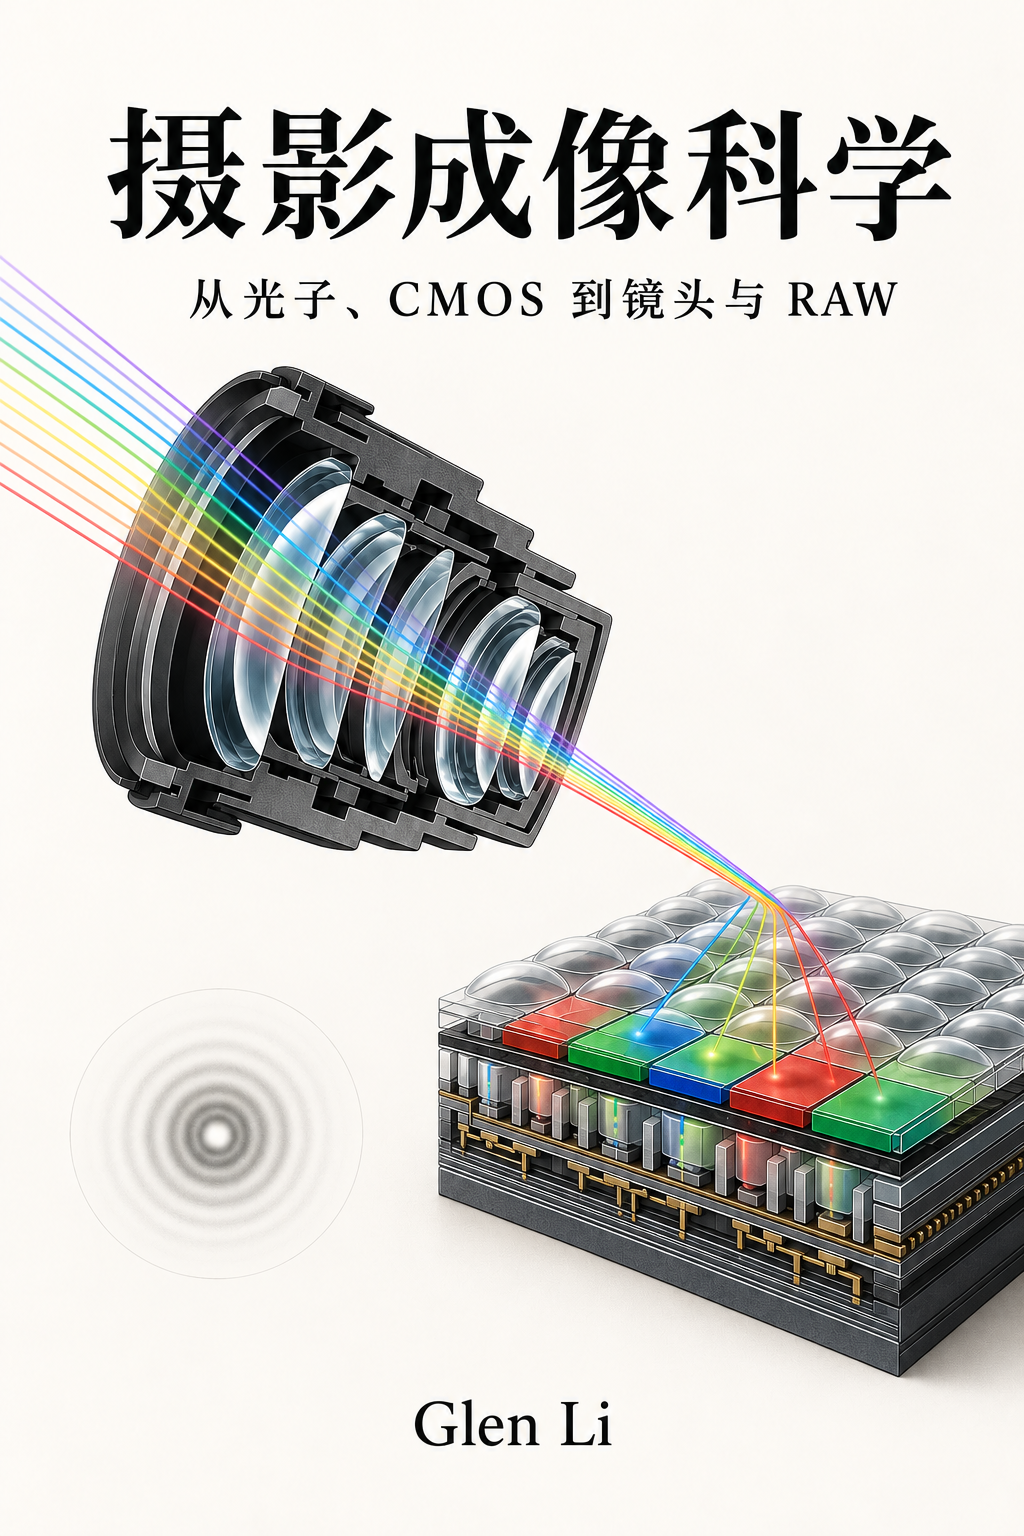
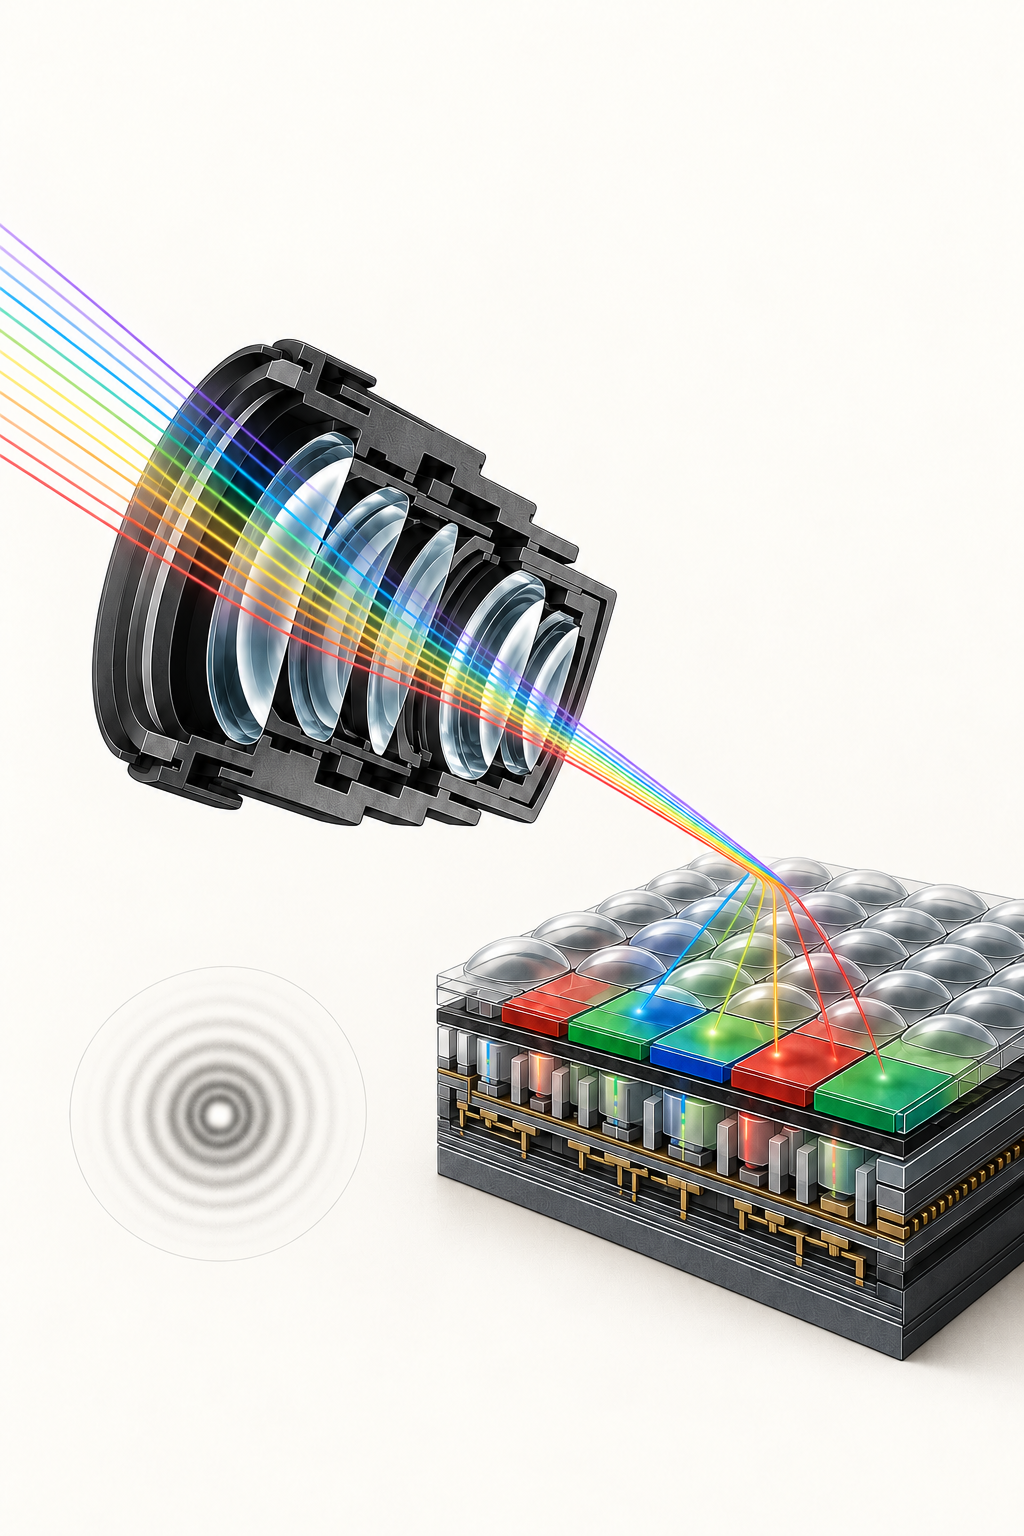
Shorten book title and separate cover illustration from typography

diff --git a/books/photographic-imaging-science/assets/cover-notes.md b/books/photographic-imaging-science/assets/cover-notes.md
@@ -1,16 +1,18 @@
-# 摄影成像科学封面
+# 摄影成像科学封面插画
 
 - 文件：[cover.png](cover.png)，1024 × 1536 px，PNG，比例 2:3。
-- 书名：摄影成像科学；副标题：从光子、CMOS 到镜头与 RAW。
+- 书名：摄影成像科学。
 - 作者：Glen Li。
 - 许可：[CC BY-NC-ND 4.0](../../../LICENSE)。
-- 制作日期：2026-10-19。使用 Codex 内置 imagegen，以原有 [cover.png](../cover.png) 为输入参考。
[1 lines of base64/hex data omitted]
+- 制作日期：2026-10-19。使用 Codex 内置 imagegen，在上一版封面插画上去除全部文字。最初的构图参考保留在 [cover.png](../cover.png)，不用于当前封面发布。
[1 lines of base64/hex data omitted]
 
-封面以镜头、光束和 CMOS 像素阵列表达全书主题，是成像流程的概念插画。定量光路、镜组处方与结构说明见正文编号图及互动模型。
+图片只包含镜头剖面、光束、CMOS 像素阵列与衍射环纹。书名和作者使用页面文字，便于沿用网站字体、缩放及后续调整。
 
-网站构建使用 `cover: { src: "assets/cover.png", alt: "《摄影成像科学》封面：镜头与 CMOS 传感器的成像示意，作者 Glen Li" }`。书稿清单保留 0.8.0 可读的字段，封面由发布方传入构建器。
+这是成像流程的概念插画。定量光路、镜组处方与结构说明见正文编号图及互动模型。
+
+网站构建使用 `cover: { src: "assets/cover.png", alt: "镜头剖面、光束与 CMOS 像素阵列" }`。书稿清单保留 0.8.0 可读的字段，封面由发布方传入构建器。
 
 ## 图像提示词
 
-Use case: precise-object-edit and text-localization. Asset type: the actual flat front cover of a Chinese photography imaging science textbook, portrait 2:3, no book mockup. The reference is the existing cover to refine. Preserve the refined Chinese serif title typography, warm off-white paper, cutaway glass lens, carefully drawn CMOS stack and restrained spectral color accents. Text must be exactly: top title “摄影成像科学”; subtitle “从光子、CMOS 到镜头与 RAW”; bottom author “Glen Li”. Replace the old author line completely with Glen Li. Simplify the busy composition: remove the unlabeled numerical MTF chart in the upper right, and use generous negative space rather than extra decoration. Correct the conceptual light-path illustration: a small bundle of rays through the lens converges directly on the upper light-sensitive sensor plane; avoid a floating focal point above the sensor that emits a second fan of rays. A quiet PSF/ring motif may appear as a separate small inset with no numerical axes. Keep lens glass, microlenses and Bayer filters convincing and precisely rendered, with clear separation and subtle material textures. This is a conceptual cover illustration, not a measured optical prescription. Maintain the existing balanced technical-illustration aesthetic, improve spacing at bookshelf thumbnail size, and preserve every Chinese character. No additional words, no numerical graphs, no slogans, no publisher logo, no watermark.
+Use case: precise-object-edit. Asset type: text-free cover illustration for an online book, portrait 2:3. Input image is the edit target. Remove ALL baked-in text completely: the large Chinese title across the top, the subtitle below it, and the author name at the bottom. Replace those areas with the same clean warm off-white background, with no visible erasure artifacts or faint lettering. Retain the finely rendered cutaway photographic lens, the translucent glass elements, the restrained spectral light rays, the CMOS microlens and Bayer filter stack, and the small quiet diffraction-ring inset. Rebalance the existing illustration slightly within the portrait canvas so the artwork reads well as a bookshelf thumbnail without a large vacant title block; retain comfortable clean margins. Keep the same precise technical-illustration style, material detail, warm paper background, and restrained color. This is conceptual cover art, not a numerical optical diagram. The title and author will be editable HTML outside the image. No text of any kind, no letters, no numbers, no labels, no logos, no watermarks. Do not add new objects.

diff --git a/books/photographic-imaging-science/README.md b/books/photographic-imaging-science/README.md
@@ -1,14 +1,14 @@
-# 摄影成像科学：从光子、CMOS 到镜头与 RAW
+# 摄影成像科学
 
 <p align="center">
-  <img src="assets/cover.png" alt="《摄影成像科学》教材封面：光线经镜头聚焦到 CMOS 传感器" width="560">
+  <img src="assets/cover.png" alt="镜头剖面、光束与 CMOS 像素阵列" width="560">
 </p>
 
 作者与维护：Glen Li；与 AI 合作撰写、校核和修订。
 
 许可：[CC BY-NC-ND 4.0](../../LICENSE)。
 
-封面为镜头与 CMOS 的成像概念插画，文件、许可和制作说明见[封面资料](assets/cover-notes.md)。网站发布可用 Markdown Book 0.9.0 的构建参数指定封面与“返回书架”入口；书稿清单继续兼容 0.8.0。
+封面插画不含文字，书名和作者由页面排版。文件、许可和制作说明见[封面资料](assets/cover-notes.md)。网站发布可用 Markdown Book 0.9.0 的构建参数指定封面与“返回书架”入口；书稿清单继续兼容 0.8.0。
 
 状态：修订稿。全书含序章及 18 章正文、55 幅可复现技术图、86 道练习及逐题答案。
 本轮修订重写叙述、补充技术推导，并核对关键公式与一手资料；尚无真实器材数据集的
